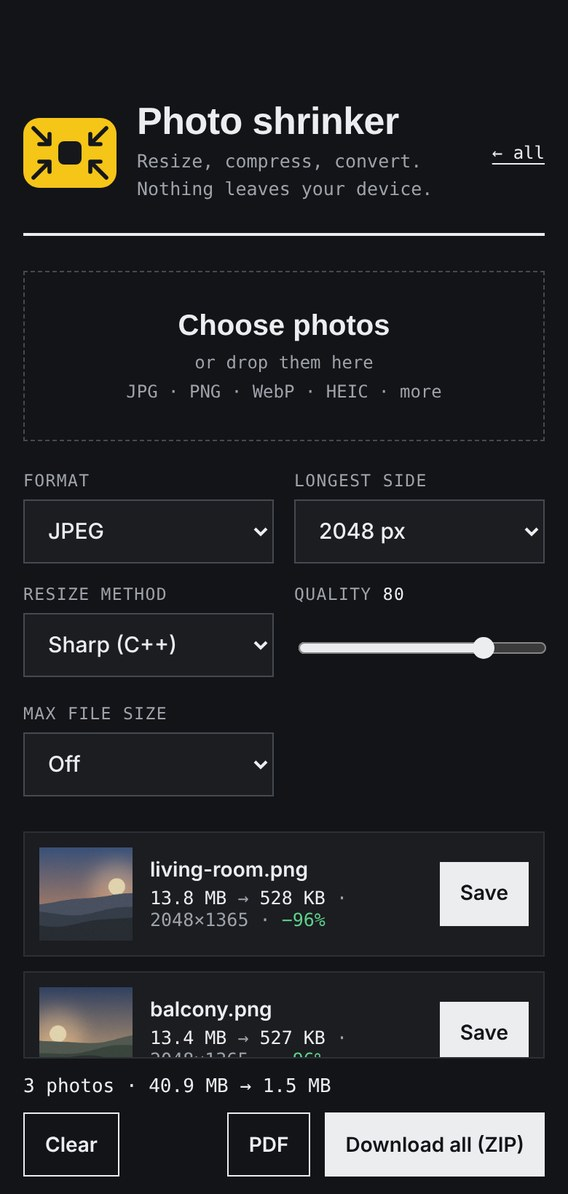
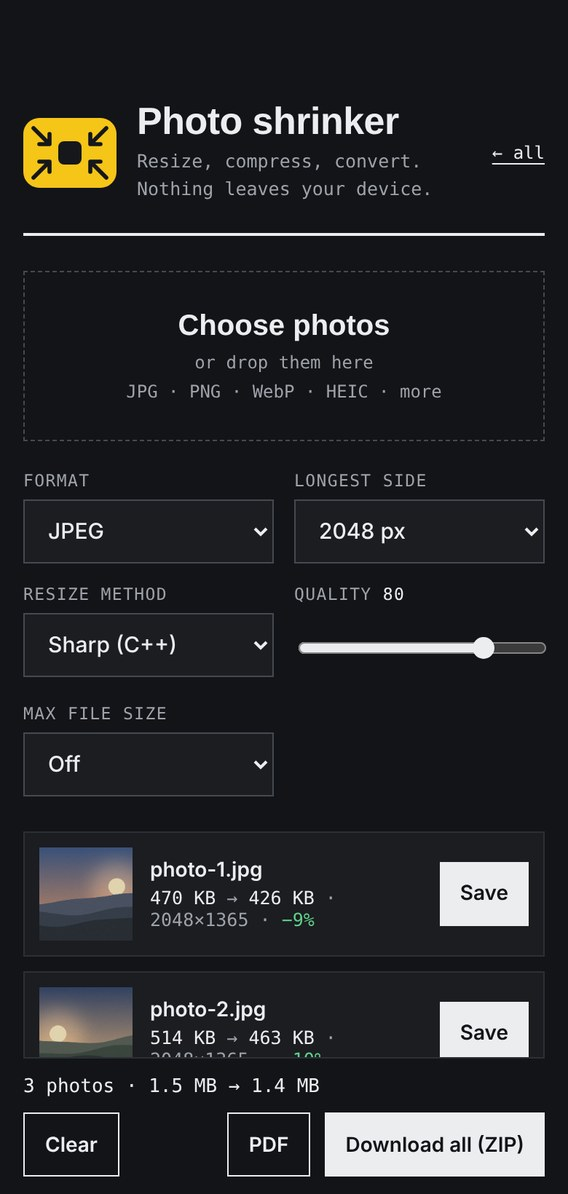
Honest demo numbers and a note that quality is lost too

Changed region(s): [[0.2694, 0.8367, 0.5986, 0.9296], [0.2694, 0.7127, 0.5687, 0.7747]]

diff --git a/about/index.html b/about/index.html
@@ -149,7 +149,7 @@ footer a{text-decoration:underline}
 <section id="how" style="padding-top:130px"><div class="c">
   <div class="kicker">How it works</div>
   <h2>Three steps</h2>
-  <p class="sub">No settings to learn. The defaults already make photos small enough to send.</p>
+  <p class="sub">No settings to learn. The defaults make photos smaller. Some quality is lost too, so keep your originals.</p>
   <div class="steps">
     <div class="step"><div class="n">1</div><div><h3>Drop photos</h3><p>Choose them, or drag a whole batch onto the page. JPG, PNG, WebP, HEIC and more.</p></div></div>
     <div class="step"><div class="n">2</div><div><h3>Pick size</h3><p>Longest side in pixels, a format, a quality. Or just say "under 200 KB".</p></div></div>

diff --git a/README.md b/README.md
@@ -8,6 +8,8 @@ Resize, compress and convert photos in your browser. Nothing is uploaded.
 
 Pick photos, choose a size and a format, save. One photo or a ZIP. It runs entirely in the page, so your pictures never leave your device. No account, no ads, no install.
 
+Smaller files also mean some lost quality, and it can't be brought back. Keep your originals and send the small copies.
+
 ## What it does
 
 - **Resize.** Longest side: original, 3000, 2048, 1600, 1200, 800, 400 px or any number you type.
